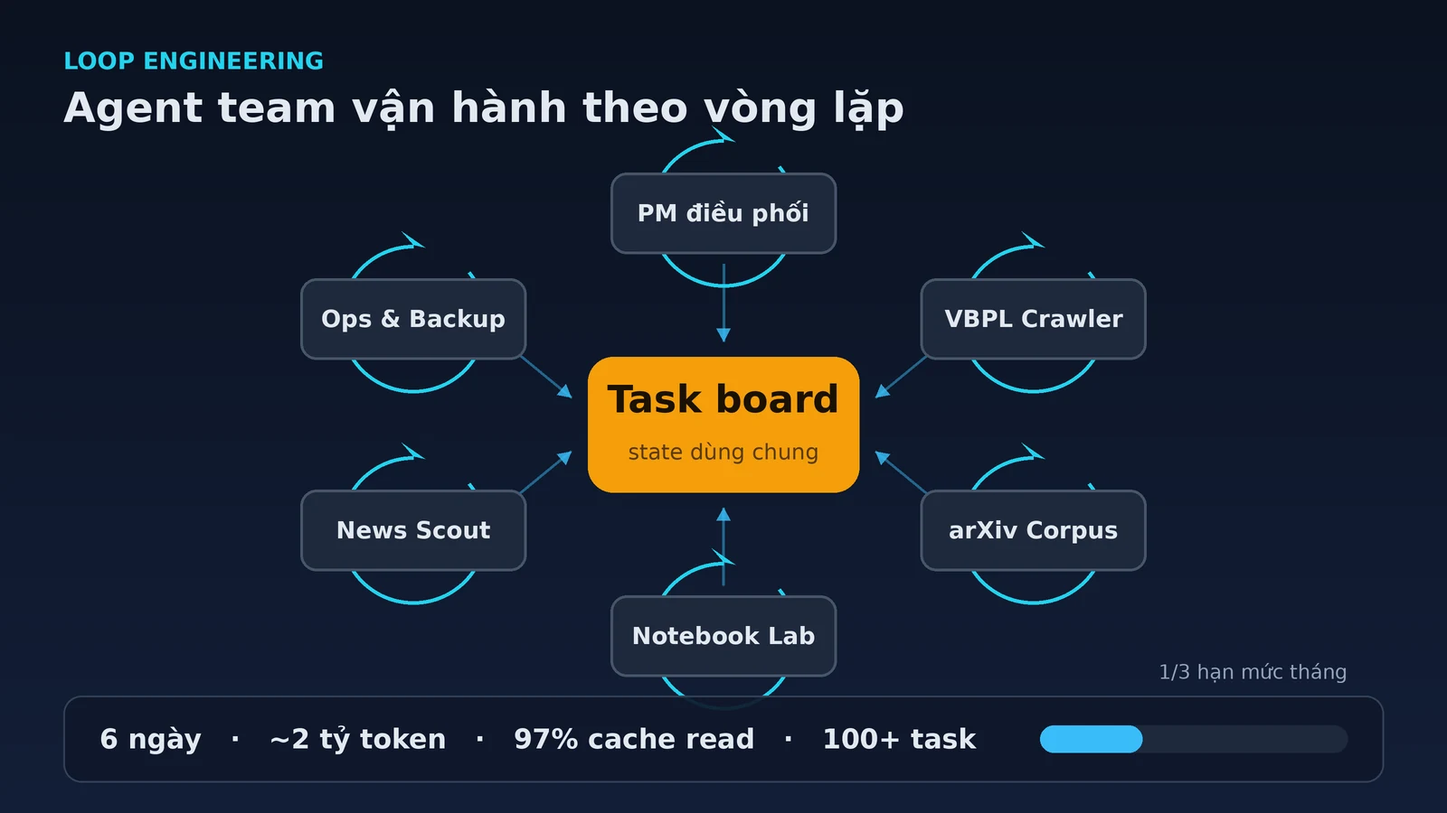
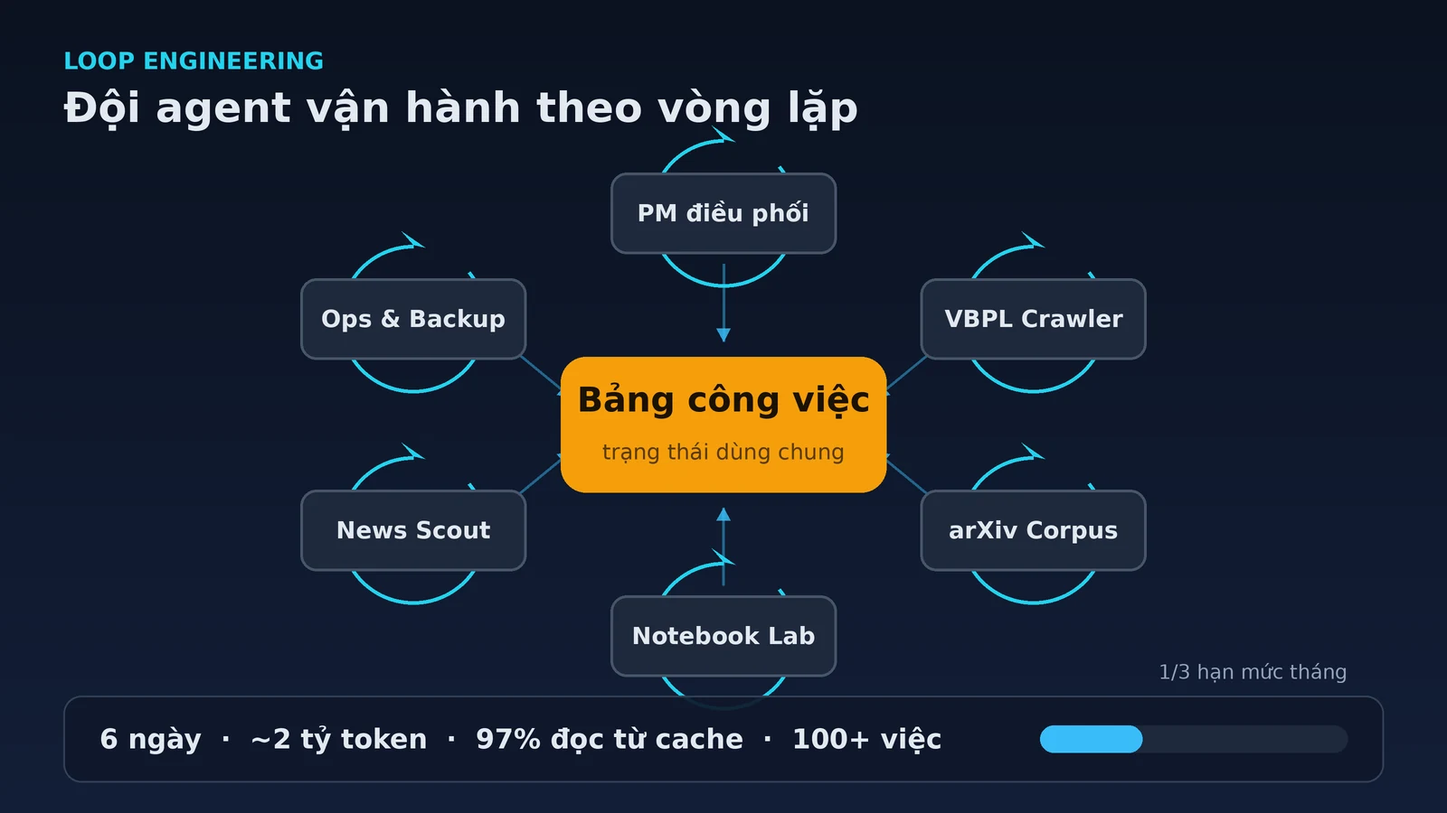
docs(blog): chỉnh văn phong tự nhiên, dịch thuật ngữ thông dụng

Changed region(s): [[0.375, 0.4356, 0.625, 0.6222], [0.0312, 0.0933, 0.625, 0.1556], [0.1875, 0.8711, 0.6875, 0.9333]]

diff --git a/blog/2026-10-05-loop-engineering-agent-team/index.md b/blog/2026-10-05-loop-engineering-agent-team/index.md
@@ -1,170 +1,170 @@
 ---
-title: "Loop engineering: vận hành một agent team làm hơn 100 task"
+title: "Loop engineering: vận hành một đội agent làm hơn 100 việc"
 slug: loop-engineering-agent-team
 authors: [manhpt]
 tags: [agent-loop, context-engineering, multi-agent, agentic-ai, cost-optimization, ai-strategy]
 date: 2026-10-05
-description: "Kết hợp loop engineering với một agent team trên opencode: hơn 100 task trong 6 ngày, ~2 tỷ token (97% cache read), và những giới hạn tôi phải chấp nhận."
+description: "Kết hợp loop engineering với một đội agent trên opencode: hơn 100 việc trong 6 ngày, khoảng 2 tỷ token với 97% đọc từ cache, và những giới hạn phải chấp nhận."
 image: ./cover.webp
 ---
 
-![Loop engineering — agent team vận hành theo vòng lặp](./cover.webp)
+![Loop engineering — đội agent vận hành theo vòng lặp](./cover.webp)
 
-Sáu ngày gần đây, một "đội" agent của tôi chạy xong hơn 100 task: crawl và kiểm tra toàn vẹn 156.404 văn bản pháp luật, làm sạch metadata cho 3,19 triệu paper arXiv, dựng một knowledge base ba tầng có vector, và chạy backup 26 GB mỗi ngày. Tôi gói gọn trong một gói thuê bao khoảng **$10/tháng**, và trong 6 ngày đó hệ thống đốt khoảng **2 tỷ token** — trong đó **97% là cache read**.
+Sáu ngày vừa rồi, một đội agent của tôi làm xong hơn 100 việc: thu thập và kiểm tra toàn vẹn 156.404 văn bản pháp luật, làm sạch metadata cho 3,19 triệu bài báo khoa học, dựng một kho tri thức ba tầng có vector, và sao lưu 26 GB mỗi ngày. Tôi làm việc này trong một gói thuê bao khoảng 10 đô một tháng. Trong sáu ngày đó, hệ thống dùng khoảng 2 tỷ token, và 97% là đọc lại từ cache.
 
-Nhưng con số ấn tượng không phải phần khó nhất. Phần khó là giữ cho nhiều agent chạy đều, rẻ, không kẹt, và biết dừng đúng lúc.
+Nhưng mấy con số đó chưa phải phần khó. Cái khó là giữ cho nhiều agent chạy đều, tốn ít, không kẹt, và biết dừng đúng lúc.
 
-Prompt engineering giải quyết một lượt gọi model. **Loop engineering** giải quyết cả vòng vận hành: cái gì chạy, chạy bao lâu một lần, tốn bao nhiêu token mỗi vòng, và khi nào thì dừng. Bài này kể cấu trúc agent team của tôi, cách tôi thiết kế từng vòng lặp, số liệu thật — kể cả phần dở, vì đó mới là phần đáng nói.
+Kỹ thuật viết prompt (prompt engineering) chỉ giải quyết một lần gọi model. Loop engineering giải quyết cả vòng vận hành: cái gì chạy, bao lâu chạy một lần, mỗi vòng tốn bao nhiêu token, và khi nào thì dừng. Bài này kể lại cấu trúc đội agent của tôi, cách tôi thiết kế từng vòng lặp, số liệu thật, kể cả phần chưa tốt — vì đó mới là phần đáng nói.
 
 <!-- truncate -->
 
-## 1. Agent team của tôi chạy như thế nào
+## 1. Đội agent của tôi chạy thế nào
 
-Điểm tôi muốn tách bạch ngay: đây không phải chuyện "chat với nhiều agent". Đây là một tổ chức nhỏ có phân vai, có board, có quy trình bàn giao.
+Trước hết cần nói rõ: đây không phải chuyện tôi ngồi chat với nhiều agent cùng lúc. Đây là một tổ chức nhỏ, có phân vai, có bảng công việc, và có quy trình bàn giao.
 
-Tôi dùng nhiều session chuyên trách trên opencode, mỗi session một vai:
+Tôi dùng nhiều phiên (session) chuyên trách trên opencode, mỗi phiên lo một việc:
 
-| Agent | Vai trò | Output chính |
+| Agent | Việc phụ trách | Kết quả chính |
 |---|---|---|
-| Product Manager | Điều phối, ưu tiên hóa, nghiệm thu | Task được giao và đóng |
-| VBPL Crawler | Crawl, audit, xử lý văn bản pháp luật | 156.404 văn bản + artifact |
-| arXiv Corpus | Thu thập và làm sạch metadata học thuật | 3,19 triệu paper |
-| Notebook Lab | Thử nghiệm, PoC, benchmark | Notebook và báo cáo kỹ thuật |
-| News Scout | Trinh sát tin tức AI, kiểm chứng chéo | Bản tin có nguồn |
-| Ops / Backup | Hạ tầng, backup, xử lý sự cố | Backup 26 GB/ngày |
+| Product Manager | Điều phối, sắp thứ tự ưu tiên, nghiệm thu | Việc được giao và đóng lại |
+| VBPL Crawler | Thu thập, kiểm tra, xử lý văn bản pháp luật | 156.404 văn bản và tệp kết quả |
+| arXiv Corpus | Thu thập và làm sạch metadata học thuật | 3,19 triệu bài báo |
+| Notebook Lab | Thử nghiệm, dựng bản thử, đo đạc | Notebook và báo cáo kỹ thuật |
+| News Scout | Theo dõi tin tức AI, kiểm chứng nhiều nguồn | Bản tin có dẫn nguồn |
+| Ops / Backup | Hạ tầng, sao lưu, xử lý sự cố | Sao lưu 26 GB mỗi ngày |
 
-Thứ giữ đội này lại với nhau không phải một framework orchestration, mà là một **task board chung** (Notion) làm workspace giữa người và agent. Tôi và các agent cùng đọc, cùng ghi trên đó. Nghe đơn giản, nhưng nó quyết định gần như toàn bộ phần còn lại của bài.
+Thứ giữ đội này lại không phải một framework điều phối nào cả, mà là một bảng công việc chung (Notion) làm nơi làm việc giữa tôi và các agent. Tôi và agent cùng đọc, cùng ghi trên đó. Nghe đơn giản, nhưng gần như mọi phần sau của bài đều xoay quanh cái bảng này.
 
-## 2. Loop engineering: thiết kế vòng lặp, không phải viết prompt hay
+## 2. Loop engineering: thiết kế vòng lặp, không phải viết prompt cho hay
 
-Anthropic định nghĩa agent gọn tới mức khó tin: *"LLM autonomously using tools in a loop"* — một model tự dùng công cụ trong một vòng lặp. Vòng lặp đó không tự nhiên đúng. Nó cần được thiết kế.
+Anthropic định nghĩa agent rất ngắn: một model tự dùng công cụ trong một vòng lặp. Nhưng vòng lặp đó không tự nhiên mà đúng; nó phải được thiết kế.
 
-Nền tảng học thuật thì đã có sẵn. [ReAct](https://arxiv.org/abs/2210.03629) cho model xen kẽ suy luận và hành động; [Reflexion](https://arxiv.org/abs/2303.11366) cho agent tự phản tư sau mỗi lần thất bại. Nhưng khi đưa lên production, câu hỏi không còn là "agent có biết phản tư không", mà là "vòng phản tư đó tốn bao nhiêu và chạy bao lâu một lần".
+Nền tảng thì đã có từ lâu. [ReAct](https://arxiv.org/abs/2210.03629) cho model xen kẽ suy luận và hành động; [Reflexion](https://arxiv.org/abs/2303.11366) cho agent tự nhìn lại sau mỗi lần thất bại. Nhưng khi đem ra vận hành thật, câu hỏi không còn là "agent có biết nhìn lại hay không", mà là mỗi lần nhìn lại tốn bao nhiêu và bao lâu làm một lần.
 
-Trong hệ thống của tôi, "loop engineering" là một tập hợp các vòng lặp vận hành cụ thể, mỗi vòng có nhịp chạy, nhiệm vụ rõ, và điều kiện dừng:
+Trong hệ thống của tôi, loop engineering là một tập hợp các vòng lặp cụ thể. Mỗi vòng có nhịp chạy, việc phải làm, và điều kiện dừng rõ ràng:
 
-| Loop | Nhịp | Nhiệm vụ | Có gọi LLM? |
+| Vòng lặp | Nhịp chạy | Việc làm | Có gọi model? |
 |---|---|---|---|
-| PM loop | 15 phút (off-peak), 1 giờ (peak) | Quét task Ready, đánh giá rủi ro, giao việc | Có |
-| Watchdog | 5 phút | Kiểm tra process nền, restart khi chết | Không |
-| Check comment | mỗi vòng PM | Đọc comment mới trên task đang mở | Có (khi có việc) |
-| Check stalled | mỗi vòng PM | Bắt task "mồ côi" | Không |
-| Backup | 03:00 hằng ngày | Sao lưu 26 GB lên cloud | Không |
-| Verify dispatch | sau mỗi dispatch | Xác nhận job thực sự sống | Không |
+| Vòng PM | 15 phút (giờ thấp điểm), 1 giờ (giờ cao điểm) | Quét việc cần làm, đánh giá rủi ro, giao việc | Có |
+| Watchdog | 5 phút | Kiểm tra tiến trình nền, khởi động lại khi chết | Không |
+| Đọc comment | mỗi vòng PM | Xem comment mới trên việc đang mở | Có, khi có việc |
+| Bắt việc mồ côi | mỗi vòng PM | Tìm việc bị bỏ quên | Không |
+| Sao lưu | 03:00 mỗi ngày | Đẩy 26 GB lên cloud | Không |
+| Kiểm tra sau khi giao | sau mỗi lần giao việc | Xác nhận job thật sự còn sống | Không |
 
-Có hai quyết định thiết kế quan trọng ở đây.
+Có hai quyết định thiết kế quan trọng.
 
-Thứ nhất, **việc cơ học không được gọi LLM**. Crawl, harvest, embed, backup, kiểm tra process đều là script Python hoặc bash, tốn 0 token. Chỉ những việc cần phán đoán — đánh giá rủi ro, viết, tổng hợp — mới gọi model. Đây là lý do một đội agent chạy cả ngày mà hóa đơn vẫn nhỏ.
+Một là, việc cơ học thì không gọi model. Thu thập dữ liệu, làm sạch, tạo embedding, sao lưu, kiểm tra tiến trình đều là script Python hoặc bash, tốn 0 token. Chỉ những việc cần phán đoán — đánh giá rủi ro, viết, tổng hợp — mới cần đến model. Đây là lý do một đội agent chạy suốt ngày mà hóa đơn vẫn nhỏ.
 
-Thứ hai, **mỗi vòng lặp phải có nhịp theo giá**. Nhà cung cấp tính giá peak cao gấp đôi ngoài giờ. Vòng kiểm tra nhẹ thì chạy dày (15 phút), việc nặng như embed hay crawl lớn thì dồn về off-peak (17:00–08:00 và cuối tuần). Chính sách "off-peak first" này về sau thành một đề xuất chính thức trong bản đánh giá nội bộ.
+Hai là, mỗi vòng phải có nhịp chạy tính theo giá. Nhà cung cấp tính giá giờ cao điểm cao gấp đôi ngoài giờ. Vòng kiểm tra nhẹ thì chạy dày, 15 phút một lần. Việc nặng như tạo embedding hay thu thập dữ liệu lớn thì dồn vào giờ thấp điểm (17:00–08:00 và cuối tuần). Quy tắc "ưu tiên giờ thấp điểm" này về sau thành một đề xuất chính thức trong bản đánh giá nội bộ.
 
-## 3. Board là bộ nhớ, không phải chat history
+## 3. Bảng công việc là bộ nhớ, không phải lịch sử chat
 
-Sai lầm phổ biến khi dựng agent team là để mỗi session tự nhớ mọi thứ trong context. Cách đó sập rất nhanh.
+Một lỗi thường gặp khi dựng đội agent là để mỗi phiên tự nhớ mọi thứ trong ngữ cảnh. Cách đó sập rất nhanh.
 
-Anthropic gọi hiện tượng này là **context rot**: khi số token trong context tăng, khả năng truy hồi chính xác của model giảm, dù đó là các model tốt nhất. Nghiên cứu [Context Rot](https://research.trychroma.com/context-rot) của Chroma cho thấy model xử lý context không đồng đều chút nào — càng dài càng kém ổn định, ngay cả với task đơn giản.
+Anthropic gọi hiện tượng này là context rot: càng nhiều token trong ngữ cảnh, model càng khó nhớ chính xác, kể cả những model tốt nhất. Nghiên cứu [Context Rot](https://research.trychroma.com/context-rot) của Chroma cho thấy model xử lý ngữ cảnh không đều chút nào. Ngữ cảnh càng dài thì càng kém ổn định, ngay cả với việc đơn giản.
 
-Giải pháp của tôi là kéo state ra khỏi context, để trên board và trong file:
+Nên tôi kéo trạng thái ra khỏi ngữ cảnh, để trên bảng và trong file:
 
-- **Task board** giữ trạng thái mỗi task: `Ready`, `In Progress`, `Review`, `Blocked`, `Done`.
-- `dispatch-log.md` ghi mọi lần giao việc và nghiệm thu.
+- Bảng công việc giữ trạng thái từng việc: `Ready`, `In Progress`, `Review`, `Blocked`, `Done`.
+- `dispatch-log.md` ghi lại mọi lần giao việc và nghiệm thu.
 - `comments-seen.json` nhớ comment nào đã xử lý, để không trả lời trùng.
-- `jobs.json` là registry các job nền đang chạy.
+- `jobs.json` là danh sách các job nền đang chạy.
 
-Mỗi vòng lặp đọc board, quyết định, ghi lại, rồi thoát. Session không cần nhớ lịch sử dài. Cách này khớp với ba kỹ thuật Anthropic khuyến nghị cho agent chạy dài: **compaction** (nén context khi gần đầy), **structured note-taking** (ghi chú ra bộ nhớ ngoài), và **sub-agent** (mỗi agent con có context sạch, trả về bản tóm tắt ngắn).
+Mỗi vòng đọc bảng, quyết định, ghi lại rồi thoát. Phiên không cần nhớ lịch sử dài. Cách làm này khớp với ba kỹ thuật Anthropic khuyên dùng cho agent chạy lâu: nén ngữ cảnh khi gần đầy, ghi chú ra bộ nhớ ngoài, và tách agent con — mỗi agent con có ngữ cảnh sạch và chỉ trả về bản tóm tắt ngắn.
 
 ```text
-        ┌──────────────── Task board ────────────────┐
+        ┌────────────── Bảng công việc ──────────────┐
         │  Ready → In Progress → Review → Done        │
         └───────▲──────────────────────────┬──────────┘
                 │                          │ đọc
           ghi trạng thái                   ▼
         ┌───────┴──────┐          ┌─────────────────┐
-        │  PM loop     │─────────▶│  Agent worker   │
-        │  (điều phối) │ dispatch │  (VBPL/arXiv…)  │
+        │  Vòng PM     │─────────▶│  Agent thực thi │
+        │  (điều phối) │ giao việc│  (VBPL/arXiv…)  │
         └──────────────┘          └─────────────────┘
 ```
 
 ## 4. Kinh tế token: cache là nhân vật chính
 
-2 tỷ token trong 6 ngày nghe rất nhiều, nhưng 97% trong đó là **cache read** — phần prefix đã gửi trước đó được tái sử dụng thay vì tính như token mới.
+2 tỷ token trong sáu ngày nghe rất nhiều, nhưng 97% trong đó là đọc lại từ cache. Phần đã gửi trước đó được dùng lại thay vì tính như token mới.
 
-DeepSeek mô tả cơ chế [context caching](https://api-docs.deepseek.com/guides/kv_cache) rất rõ: nếu request sau có prefix trùng với request trước, phần trùng đó chỉ được đọc từ cache, tính là "cache hit". Trong bảng giá tôi dùng, cache read rẻ khoảng **50 lần** so với token input thường. Đây chính là lý do một vòng PM loop đọc lại context 60–200K token mà chỉ tốn vài phần nghìn đô.
+DeepSeek mô tả cơ chế [context caching](https://api-docs.deepseek.com/guides/kv_cache) như sau: nếu request sau có phần đầu trùng với request trước, phần trùng đó chỉ được đọc từ cache, gọi là trúng cache. Với mức giá tôi đang dùng, đọc từ cache rẻ hơn khoảng 50 lần so với token đầu vào thường. Nhờ vậy một vòng PM đọc lại 60–200K token ngữ cảnh mà chỉ tốn vài phần nghìn đô.
 
-Điều này dẫn tới một kết luận mà tôi phải mất một thời gian mới nhận ra: **chi phí tỉ lệ với số lần gọi nhân với kích thước context, không phải với tier model**. Tôi từng nghĩ dùng model rẻ hơn cho vòng kiểm tra sẽ tiết kiệm. Sai. Cái quyết định là context phình bao nhiêu và gọi bao nhiêu lần.
+Điều này dẫn tới một kết luận tôi phải mất một thời gian mới thấy. Chi phí tỉ lệ với số lần gọi nhân với kích thước ngữ cảnh, chứ không phụ thuộc vào model đắt hay rẻ. Tôi từng nghĩ dùng model rẻ hơn cho vòng kiểm tra sẽ tiết kiệm. Sai. Thứ quyết định là ngữ cảnh phình bao nhiêu và gọi bao nhiêu lần.
 
-Số liệu thật trong một cửa sổ 4,4 ngày (30/09–04/10), quy đổi theo giá API lẻ và điều chỉnh cho giờ peak:
+Số liệu thật trong 4,4 ngày (30/09–04/10), quy đổi theo giá API lẻ và tính cả giờ cao điểm:
 
-| Session | Token vào | Cache read | Chi phí tương đương |
+| Phiên | Token đầu vào | Đọc từ cache | Chi phí tương đương |
 |---|---|---|---|
 | VBPL Crawler | 11,18M | 666,9M | ~$5,63 |
-| PM loop | 11,06M | 318,3M | ~$3,69 |
+| Vòng PM | 11,06M | 318,3M | ~$3,69 |
 | Main (người dùng) | 8,74M | 278,5M | ~$2,89 |
 | Notebook Lab | 5,63M | 294,5M | ~$2,29 |
 | arXiv Corpus | 4,20M | 107,1M | ~$1,20 |
 | News Scout | 0,96M | 13,1M | ~$0,24 |
 
-Vì sao con số quan trọng: Anthropic đo được agent thường dùng **gấp ~4 lần** token so với chat thường, và hệ multi-agent **gấp ~15 lần**. Multi-agent không miễn phí — nó là cách tiêu token để mua năng lực. Chỉ hợp lý khi task đủ giá trị và ta kiểm soát được mỗi vòng lặp tốn bao nhiêu.
+Vì sao cần để ý: Anthropic đo được agent thường dùng token gấp khoảng 4 lần so với chat thường, còn hệ nhiều agent thì gấp khoảng 15 lần. Nhiều agent không hề miễn phí. Đó là cách tiêu token để mua thêm năng lực, nên chỉ nên dùng khi việc đủ giá trị và ta kiểm soát được mỗi vòng tốn bao nhiêu.
 
-## 5. Loop nào đáng tiền, loop nào đốt tiền
+## 5. Vòng nào đáng tiền, vòng nào đốt tiền
 
-Đây là phần tôi muốn nói thẳng.
+Phần này tôi muốn nói thẳng.
 
-Trong 4,4 ngày đó, PM loop chạy **324 vòng** và khoảng **56% là noop** — chạy xong không làm gì. Riêng phần noop ước tính tốn **$10–13/tháng** theo giá API, tức khoảng **23% tổng chi phí**. Nói cách khác, gần một phần tư công suất đi vào việc "kiểm tra xem có gì mới không" rồi kết luận là không.
+Trong 4,4 ngày đó, vòng PM chạy 324 lần và khoảng 56% là không làm gì cả. Riêng phần này tốn khoảng 10–13 đô một tháng theo giá API, tức khoảng 23% tổng chi phí. Nói cách khác, gần một phần tư công suất chỉ để chạy đi kiểm tra xem có gì mới không, rồi kết luận là không có gì.
 
-Ba nút thắt lớn nhất lộ ra từ đánh giá:
+Ba điểm nghẽn lớn nhất lộ ra:
 
-1. **Chờ người duyệt.** Có task chờ tôi duyệt rủi ro tới **30 giờ**, một task khác **10,8 giờ**, một task treo **33 giờ+**. Agent rảnh 85–99% thời gian. Nút thắt thật không nằm ở năng lực agent, mà ở vòng phê duyệt của con người.
-2. **PM loop overhead và context phình.** Vòng noop chỉ tốn ~$0,006, nhưng context mỗi vòng phình lên 60–200K token, và session PM bị nén (compaction) xóa lịch sử **16 lần** trong cửa sổ đo — mất ngữ cảnh, có nguy cơ bỏ sót.
-3. **Giám sát job nền kiểu bị động.** Có **58 lần** watchdog phải restart một job, có đợt "bão restart" 17 lần trong 1,5 giờ. Một job chết im lặng cho tới khi tôi tự phát hiện.
+1. **Chờ tôi duyệt.** Có việc chờ tôi duyệt rủi ro tới 30 giờ, một việc khác 10,8 giờ, một việc treo hơn 33 giờ. Agent rảnh 85–99% thời gian. Nút thắt thật không nằm ở năng lực của agent, mà ở khâu tôi phải duyệt.
+2. **Vòng PM và ngữ cảnh phình to.** Một vòng không làm gì chỉ tốn khoảng 0,006 đô, nhưng ngữ cảnh mỗi vòng phình lên 60–200K token. Phiên PM bị nén và xoá lịch sử 16 lần trong khoảng thời gian đo, gây mất ngữ cảnh và có nguy cơ bỏ sót việc.
+3. **Giám sát job nền còn bị động.** Có 58 lần watchdog phải khởi động lại một job, có đợt dồn tới 17 lần trong 1,5 giờ. Một job chết im lặng cho tới khi tôi tự phát hiện.
 
-Điểm chung: tôi đã tối ưu phần thú vị (model, prompt) nhưng lại bỏ quên phần vận hành tẻ nhạt — nhịp, điều kiện dừng, và giám sát.
+Điểm chung của cả ba: tôi chăm chút phần thú vị như model và prompt, mà quên phần tẻ nhạt nhưng quan trọng là nhịp chạy, điều kiện dừng, và giám sát.
 
 ## 6. Ba thứ đã sửa, ba thứ còn mở
 
-Bản đánh giá nội bộ đưa ra 6 đề xuất. Tôi chọn làm 3 cái không ảnh hưởng chất lượng trước.
+Bản đánh giá nội bộ đưa ra 6 đề xuất. Tôi chọn làm trước 3 cái không ảnh hưởng chất lượng.
 
-**Đã sửa:**
+Đã sửa:
 
-- **Quét task "mồ côi" (#2).** Viết `check-stalled.py`: task đang `In Progress` mà PID không còn sống, log stale quá 2 giờ, và không nằm trong whitelist thì bị gắn cờ. Nó bắt được đúng lỗ hổng V70 — task bị đánh dấu đang chạy nhưng không ai dispatch, trễ 10,8 giờ. Script cross-check với registry job nền để không gắn cờ oan.
-- **Off-peak first (#4).** Đưa thành quy tắc dispatch: việc nặng ưu tiên khung 17:00–08:00 và cuối tuần. Không đổi cron, chỉ đổi thứ tự ưu tiên.
-- **Supervisor có backoff (#5).** Thay vì restart cứng mỗi 5 phút, supervisor restart với backoff 5'→10'→20'→30', và cảnh báo khi hết lượt. Hết bão restart.
+- **Quét việc mồ côi.** Tôi viết `check-stalled.py`: một việc đang `In Progress` mà tiến trình không còn sống, log cũ quá 2 giờ, và không nằm trong danh sách miễn trừ thì bị gắn cờ. Nó bắt đúng lỗ hổng V70 — việc bị đánh dấu là đang chạy nhưng không ai giao, trễ 10,8 giờ. Script có đối chiếu với danh sách job nền nên không gắn cờ oan.
+- **Ưu tiên giờ thấp điểm.** Đưa thành quy tắc khi giao việc: việc nặng nên đẩy vào 17:00–08:00 và cuối tuần. Không đổi lịch chạy, chỉ đổi thứ tự ưu tiên.
+- **Bộ giám sát có khoảng lùi.** Thay vì khởi động lại cứng mỗi 5 phút, bộ giám sát thử lại với khoảng lùi tăng dần 5'→10'→20'→30', và cảnh báo khi hết lượt. Hết cảnh dồn dập.
 
-**Còn mở, và tôi chưa làm:**
+Còn mở, tôi chưa làm:
 
-- **Pre-check gate (#1).** Cho một script determinist chạy mỗi 15 phút để kiểm tra board, comment, process; chỉ gọi `opencode run` khi thật sự có việc mới. Đây là đề xuất tiết kiệm lớn nhất (~$8–12/tháng) vì nó xử lý trực tiếp 56% vòng noop — nhưng nó chạm vào logic điều phối, nên tôi để sau.
-- **Tách session VBPL (#3).** Một session chạy liên tục từ tháng 7 tích lũy context ~432K token mỗi message, khoản cache-read đắt nhất hệ thống. Cần tách "crawl/DB-ops" khỏi "KB R&D", kèm handoff doc.
-- **Giảm context PM (#6).** Hạ ngưỡng compaction và chuyển state quan trọng ra file nhiều hơn.
+- **Chốt kiểm tra trước khi gọi model.** Đây là việc tiết kiệm lớn nhất: cho một script chạy mỗi 15 phút để kiểm tra bảng, comment, tiến trình; chỉ gọi model khi thật sự có việc mới. Nó xử lý trực tiếp 56% vòng rỗng, nhưng đụng vào logic điều phối nên tôi để sau.
+- **Tách phiên VBPL.** Một phiên chạy liên tục từ tháng 7 tích lũy ngữ cảnh tới 432K token mỗi message, khoản đọc cache đắt nhất hệ thống. Cần tách phần thu thập dữ liệu khỏi phần nghiên cứu kho tri thức, kèm một bản bàn giao.
+- **Giảm ngữ cảnh phiên PM.** Hạ ngưỡng nén và chuyển bớt trạng thái quan trọng ra file.
 
-Tôi cố tình không làm cả 6 cùng lúc. Mỗi thay đổi trong vòng điều phối đều có thể gây hiệu ứng dây chuyền, và tôi muốn test từng cái một.
+Tôi cố tình không làm cả 6 cùng lúc. Mỗi thay đổi trong vòng điều phối đều có thể kéo theo thứ khác, nên tôi muốn thử từng cái một.
 
-## 7. Vài bài học
+## 7. Vài điều rút ra
 
-**Loop phải rẻ trước khi thông minh.** Một vòng lặp chạy 15 phút một lần mà mỗi lần tốn vài trăm nghìn token sẽ âm thầm ăn hết ngân sách. Tối ưu nhịp và context trước, thêm năng lực sau.
+**Vòng lặp phải rẻ trước khi thông minh.** Một vòng chạy 15 phút một lần mà mỗi lần ngốn vài trăm nghìn token sẽ âm thầm ăn hết ngân sách. Tối ưu nhịp chạy và ngữ cảnh trước, thêm năng lực sau.
 
-**Nút thắt thường là con người, không phải model.** 30 giờ chờ duyệt lớn hơn mọi độ trễ kỹ thuật trong hệ thống. Tự động hóa vòng lặp mà không tự động hóa phê duyệt thì chỉ đẩy hàng đợi sang chỗ khác.
+**Nút thắt thường là con người, không phải model.** 30 giờ chờ duyệt lớn hơn mọi độ trễ kỹ thuật trong hệ thống. Tự động hóa vòng lặp mà không tự động hóa khâu duyệt thì chỉ dời hàng đợi sang chỗ khác.
 
-**Observability trước autonomy.** Không trace được retrieval, ranking, và từng quyết định của agent thì không sửa được gì. Tôi phải xây log và registry trước khi dám cho agent chạy nền.
+**Quan sát được trước đã, rồi hãy cho tự chủ.** Không theo dõi được từng bước truy xuất, xếp hạng và quyết định của agent thì không sửa được gì. Tôi phải dựng log và danh sách job trước khi dám cho agent chạy nền.
 
-**Multi-agent không miễn phí.** Gấp ~15 lần token so với chat. Nó hợp với task song song được, giá trị cao (như thu thập và làm sạch dữ liệu), nhưng không hợp với task ràng buộc chặt và ít song song. Anthropic cũng cảnh báo điều này.
+**Nhiều agent không miễn phí.** Tốn gấp khoảng 15 lần so với chat. Nó hợp với việc song song được và đáng giá, nhưng không hợp với việc ràng buộc chặt và ít song song. Anthropic cũng cảnh báo điều này.
 
-**Board là hạ tầng, không phải phụ lục.** Một task board chung làm bộ nhớ ngoài cho cả người và agent rẻ hơn, bền hơn, và minh bạch hơn mọi cơ chế "AI tự nhớ".
+**Bảng công việc là hạ tầng, không phải thứ phụ.** Một bảng chung làm bộ nhớ ngoài cho cả người và agent rẻ hơn, bền hơn và minh bạch hơn mọi cơ chế để AI tự nhớ.
 
 ## Kết
 
-Tôi không nghĩ mình đang "thay người bằng AI". Tôi đang chạy một mô hình đơn giản hơn: **một người + một quy trình tốt + một đội agent**. Con số hơn 100 task trong 6 ngày không đến từ model thông minh hơn, mà từ việc thiết kế vòng lặp đủ rẻ và đủ rõ để chạy mà không cần tôi đứng cạnh.
+Tôi không nghĩ mình đang thay người bằng AI. Tôi đang chạy một cách làm đơn giản hơn: một người, một quy trình tốt, và một đội agent. Hơn 100 việc trong sáu ngày không đến từ model thông minh hơn, mà từ việc thiết kế vòng lặp đủ rẻ và đủ rõ để chạy mà không cần tôi ngồi cạnh.
 
-Việc tiếp theo khá rõ: dựng pre-check gate determinist trước PM loop, để các vòng "kiểm tra xem có gì mới không" ngừng đốt token. Đó là cách trực tiếp nhất để cắt 56% vòng noop.
+Việc tiếp theo khá rõ: dựng bước kiểm tra trước vòng PM, để những vòng chỉ đi hỏi "có gì mới không" ngừng đốt token. Đó là cách trực tiếp nhất để cắt 56% vòng rỗng.
 
 ## Tài liệu tham khảo
 
 1. [Building effective agents](https://www.anthropic.com/engineering/building-effective-agents) — Anthropic, 12/2024; phân biệt workflow và agent, cùng các pattern orchestrator-workers và evaluator-optimizer.
-2. [How we built our multi-agent research system](https://www.anthropic.com/engineering/multi-agent-research-system) — Anthropic, 06/2025; số liệu agent dùng ~4× token và multi-agent ~15× token so với chat.
-3. [Effective context engineering for AI agents](https://www.anthropic.com/engineering/effective-context-engineering-for-ai-agents) — Anthropic, 09/2025; compaction, ghi chú có cấu trúc, sub-agent.
+2. [How we built our multi-agent research system](https://www.anthropic.com/engineering/multi-agent-research-system) — Anthropic, 06/2025; số liệu agent dùng ~4× token và hệ nhiều agent dùng ~15× token so với chat.
+3. [Effective context engineering for AI agents](https://www.anthropic.com/engineering/effective-context-engineering-for-ai-agents) — Anthropic, 09/2025; nén ngữ cảnh, ghi chú có cấu trúc, tách agent con.
 4. [Context Rot: How Increasing Input Tokens Impacts LLM Performance](https://research.trychroma.com/context-rot) — Chroma, 07/2025.
 5. [ReAct: Synergizing Reasoning and Acting in Language Models](https://arxiv.org/abs/2210.03629) — Yao và cộng sự, 2022.
 6. [Reflexion: Language Agents with Verbal Reinforcement Learning](https://arxiv.org/abs/2303.11366) — Shinn và cộng sự, 2023.
 7. [Context Caching](https://api-docs.deepseek.com/guides/kv_cache) — DeepSeek API Docs.
-8. [Measuring AI Ability to Complete Long Software Tasks](https://arxiv.org/abs/2503.14499) — METR, 2025; nền tảng cho thảo luận về độ dài tác vụ mà agent có thể tự hoàn thành.
+8. [Measuring AI Ability to Complete Long Software Tasks](https://arxiv.org/abs/2503.14499) — METR, 2025; nền tảng cho phần bàn về độ dài công việc mà agent có thể tự hoàn thành.
 
-*Số liệu vận hành được chốt từ bản đánh giá nội bộ ngày 04/10/2026; nguồn tham khảo ngoài được kiểm tra ngày 05/10/2026.*
+*Số liệu vận hành lấy từ bản đánh giá nội bộ ngày 04/10/2026. Nguồn tham khảo ngoài được kiểm tra ngày 05/10/2026.*
